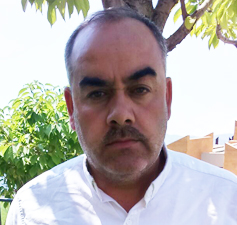
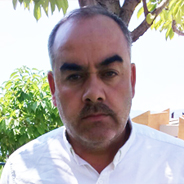
resizing the expertise images

diff --git a/public/css/style.css b/public/css/style.css
@@ -443,6 +443,6 @@ body { font-family: 'Open Sans', sans-serif; }
 }
 
 .team-member{margin-bottom:50px;text-align:center;}
-.team-member img{margin:0 auto;}
-.team-member h3{font-size:21px;margin-top:30px;margin-bottom:10px;}
+.team-member img{margin:0 auto; width:184px !important;}
+.team-member h3{font-size:18px;margin-top:30px;margin-bottom:10px;}
 .team-member h4{font-size:15px;color:#aaaaaa; font-weight:normal; font-style: italic;}

diff --git a/app/views/home/index.blade.php b/app/views/home/index.blade.php
@@ -202,67 +202,65 @@
 		<span class="line hidden-xs" style="margin:-63px auto auto 120px; background-color:#fff"></span>
 			
 			<div class="row">
-			<div class="col-sm-3">
-                <div class="team-member">
-                    <img src="/images/team/farid.jpg" class="img-responsive img-circle" alt="Farid Abi Aad | Mechanical engineer with 30 years of experience" title="Farid Abi Aad | Mechanical engineer with 30 years of experience">
-                    <h3>Farid Abi Aad</h3>
-                    <h4 class="text-muted">Mechanical engineer with 30 years of experience</h4>
-                </div>
-            </div>
+				<div class="col-sm-3">
+	                <div class="team-member">
+	                    <img src="/images/team/tony.jpg" class="img-responsive img-circle" alt="Tony Hojeily | Technical manager" title="Tony Hojeily | Technical manager">
+	                    <h3>Tony Hojeily</h3>
+	                    <h4>Technical manager</h4> 
+	                </div>
+	            </div>
 
-            <div class="col-sm-3">
-                <div class="team-member">
-                    <img src="/images/team/assaad.jpg" class="img-responsive img-circle" alt="Assaad Kfoury | Electrical engineer with 20 years of experience" title="Assaad Kfoury | Electrical engineer with 20 years of experience">
-                    <h3>Assaad Kfoury</h3>
-                    <h4>Electrical engineer with 20 years of experience</h4>
-                </div>
-            </div>
+				<div class="col-sm-3">
+	                <div class="team-member">
+	                    <img src="/images/team/farid.jpg" class="img-responsive img-circle" alt="Farid Abi Aad | Mechanical engineer with 30 years of experience" title="Farid Abi Aad | Mechanical engineer with 30 years of experience">
+	                    <h3>Farid Abi Aad</h3>
+	                    <h4 class="text-muted">Mechanical engineer with 30 years of experience</h4>
+	                </div>
+	            </div>
+
+	            <div class="col-sm-3">
+	                <div class="team-member">
+	                    <img src="/images/team/assaad.jpg" class="img-responsive img-circle" alt="Assaad Kfoury | Electrical engineer with 20 years of experience" title="Assaad Kfoury | Electrical engineer with 20 years of experience">
+	                    <h3>Assaad Kfoury</h3>
+	                    <h4>Electrical engineer with 20 years of experience</h4>
+	                </div>
+	            </div>
 
 
-            <div class="col-sm-3">
-                <div class="team-member">
-                    <img src="/images/team/julien.jpg" class="img-responsive img-circle" alt="Julien Mouchantaf | Civil engineer" title="Julien Mouchantaf | Civil engineer">
-                    <h3>Julien Mouchantaf</h3>
-                    <h4>Civil engineer</h4>  
-                </div>
-            </div>
-
-
-            <div class="col-sm-3">
-                <div class="team-member">
-                    <img src="/images/team/tony.jpg" class="img-responsive img-circle" alt="Tony Hojeily | Technical manager" title="Tony Hojeily | Technical manager">
-                    <h3>Tony Hojeily</h3>
-                    <h4>Technical manager</h4> 
-                </div>
-           </div>
+	            <div class="col-sm-3">
+	                <div class="team-member">
+	                    <img src="/images/team/julien.jpg" class="img-responsive img-circle" alt="Julien Mouchantaf | Civil engineer" title="Julien Mouchantaf | Civil engineer">
+	                    <h3>Julien Mouchantaf</h3>
+	                    <h4>Civil engineer</h4>  
+	                </div>
+	            </div>
            </div>
 
            <div class="row">
-           <div class="col-sm-3">
-                <div class="team-member">
-                    <img src="/images/team/corine.jpg" class="img-responsive img-circle" alt="Corine Chadaideh | Accounting department" title="Corine Chadaideh | Accounting department">
-                    <h3>Corine Chadaideh</h3>
-                    <h4>Accounting department</h4>  
-                </div>
-            </div>
+	           <div class="col-sm-3">
+	                <div class="team-member">
+	                    <img src="/images/team/corine.jpg" class="img-responsive img-circle" alt="Corine Chadaideh | Accounting department" title="Corine Chadaideh | Accounting department">
+	                    <h3>Corine Chadaideh</h3>
+	                    <h4>Accounting department</h4>  
+	                </div>
+	            </div>
 
 
-            <div class="col-sm-3">
-                <div class="team-member">
-                    <img src="/images/team/reem.jpg" class="img-responsive img-circle" alt="Reem Bou Matar | Operations manager collection" title="Reem Bou Matar | Operations manager collection">
-                    <h3>Reem Bou Matar</h3>
-                    <h4>Operations manager collection</h4> 
-                </div>
-           </div>
+	            <div class="col-sm-3">
+	                <div class="team-member">
+	                    <img src="/images/team/reem.jpg" class="img-responsive img-circle" alt="Reem Bou Matar | Operations manager collection" title="Reem Bou Matar | Operations manager collection">
+	                    <h3>Reem Bou Matar</h3>
+	                    <h4>Operations manager collection</h4> 
+	                </div>
+	           </div>
 
-           <div class="col-sm-3">
-                <div class="team-member">
-                    <img src="/images/team/bassam.jpg" class="img-responsive img-circle" alt="Bassam Hammoud | Engineer" title="Bassam Hammoud | Engineer">
-                    <h3>Bassam Hammoud</h3>
-                    <h4>Engineer</h4> 
-                </div>
-           </div>
-
+	           <div class="col-sm-3">
+	                <div class="team-member">
+	                    <img src="/images/team/bassam.jpg" class="img-responsive img-circle" alt="Bassam Hammoud | Engineer" title="Bassam Hammoud | Engineer">
+	                    <h3>Bassam Hammoud</h3>
+	                    <h4>Engineer</h4> 
+	                </div>
+	           </div>
            </div>
 	</div>
 </div>

diff --git a/app/views/expertise/index.blade.php b/app/views/expertise/index.blade.php
@@ -13,67 +13,65 @@
 		<span class="line hidden-xs" style="margin:-63px auto auto 120px; background-color:#fff"></span>
 			
 			<div class="row">
-			<div class="col-sm-3">
-                <div class="team-member">
-                    <img src="/images/team/farid.jpg" class="img-responsive img-circle" alt="Farid Abi Aad | Mechanical engineer with 30 years of experience" title="Farid Abi Aad | Mechanical engineer with 30 years of experience">
-                    <h3>Farid Abi Aad</h3>
-                    <h4 class="text-muted">Mechanical engineer with 30 years of experience</h4>
-                </div>
-            </div>
+				<div class="col-sm-3">
+	                <div class="team-member">
+	                    <img src="/images/team/tony.jpg" class="img-responsive img-circle" alt="Tony Hojeily | Technical manager" title="Tony Hojeily | Technical manager">
+	                    <h3>Tony Hojeily</h3>
+	                    <h4>Technical manager</h4> 
+	                </div>
+	            </div>
 
-            <div class="col-sm-3">
-                <div class="team-member">
-                    <img src="/images/team/assaad.jpg" class="img-responsive img-circle" alt="Assaad Kfoury | Electrical engineer with 20 years of experience" title="Assaad Kfoury | Electrical engineer with 20 years of experience">
-                    <h3>Assaad Kfoury</h3>
-                    <h4>Electrical engineer with 20 years of experience</h4>
-                </div>
-            </div>
+				<div class="col-sm-3">
+	                <div class="team-member">
+	                    <img src="/images/team/farid.jpg" class="img-responsive img-circle" alt="Farid Abi Aad | Mechanical engineer with 30 years of experience" title="Farid Abi Aad | Mechanical engineer with 30 years of experience">
+	                    <h3>Farid Abi Aad</h3>
+	                    <h4 class="text-muted">Mechanical engineer with 30 years of experience</h4>
+	                </div>
+	            </div>
+
+	            <div class="col-sm-3">
+	                <div class="team-member">
+	                    <img src="/images/team/assaad.jpg" class="img-responsive img-circle" alt="Assaad Kfoury | Electrical engineer with 20 years of experience" title="Assaad Kfoury | Electrical engineer with 20 years of experience">
+	                    <h3>Assaad Kfoury</h3>
+	                    <h4>Electrical engineer with 20 years of experience</h4>
+	                </div>
+	            </div>
 
 
-            <div class="col-sm-3">
-                <div class="team-member">
-                    <img src="/images/team/julien.jpg" class="img-responsive img-circle" alt="Julien Mouchantaf | Civil engineer" title="Julien Mouchantaf | Civil engineer">
-                    <h3>Julien Mouchantaf</h3>
-                    <h4>Civil engineer</h4>  
-                </div>
-            </div>
-
-
-            <div class="col-sm-3">
-                <div class="team-member">
-                    <img src="/images/team/tony.jpg" class="img-responsive img-circle" alt="Tony Hojeily | Technical manager" title="Tony Hojeily | Technical manager">
-                    <h3>Tony Hojeily</h3>
-                    <h4>Technical manager</h4> 
-                </div>
-           </div>
+	            <div class="col-sm-3">
+	                <div class="team-member">
+	                    <img src="/images/team/julien.jpg" class="img-responsive img-circle" alt="Julien Mouchantaf | Civil engineer" title="Julien Mouchantaf | Civil engineer">
+	                    <h3>Julien Mouchantaf</h3>
+	                    <h4>Civil engineer</h4>  
+	                </div>
+	            </div>
            </div>
 
            <div class="row">
-           <div class="col-sm-3">
-                <div class="team-member">
-                    <img src="/images/team/corine.jpg" class="img-responsive img-circle" alt="Corine Chadaideh | Accounting department" title="Corine Chadaideh | Accounting department">
-                    <h3>Corine Chadaideh</h3>
-                    <h4>Accounting department</h4>  
-                </div>
-            </div>
+	           <div class="col-sm-3">
+	                <div class="team-member">
+	                    <img src="/images/team/corine.jpg" class="img-responsive img-circle" alt="Corine Chadaideh | Accounting department" title="Corine Chadaideh | Accounting department">
+	                    <h3>Corine Chadaideh</h3>
+	                    <h4>Accounting department</h4>  
+	                </div>
+	            </div>
 
 
-            <div class="col-sm-3">
-                <div class="team-member">
-                    <img src="/images/team/reem.jpg" class="img-responsive img-circle" alt="Reem Bou Matar | Operations manager collection" title="Reem Bou Matar | Operations manager collection">
-                    <h3>Reem Bou Matar</h3>
-                    <h4>Operations manager collection</h4> 
-                </div>
-           </div>
+	            <div class="col-sm-3">
+	                <div class="team-member">
+	                    <img src="/images/team/reem.jpg" class="img-responsive img-circle" alt="Reem Bou Matar | Operations manager collection" title="Reem Bou Matar | Operations manager collection">
+	                    <h3>Reem Bou Matar</h3>
+	                    <h4>Operations manager collection</h4> 
+	                </div>
+	           </div>
 
-           <div class="col-sm-3">
-                <div class="team-member">
-                    <img src="/images/team/bassam.jpg" class="img-responsive img-circle" alt="Bassam Hammoud | Engineer" title="Bassam Hammoud | Engineer">
-                    <h3>Bassam Hammoud</h3>
-                    <h4>Engineer</h4> 
-                </div>
-           </div>
-
+	           <div class="col-sm-3">
+	                <div class="team-member">
+	                    <img src="/images/team/bassam.jpg" class="img-responsive img-circle" alt="Bassam Hammoud | Engineer" title="Bassam Hammoud | Engineer">
+	                    <h3>Bassam Hammoud</h3>
+	                    <h4>Engineer</h4> 
+	                </div>
+	           </div>
            </div>
 	</div>
 </div>
